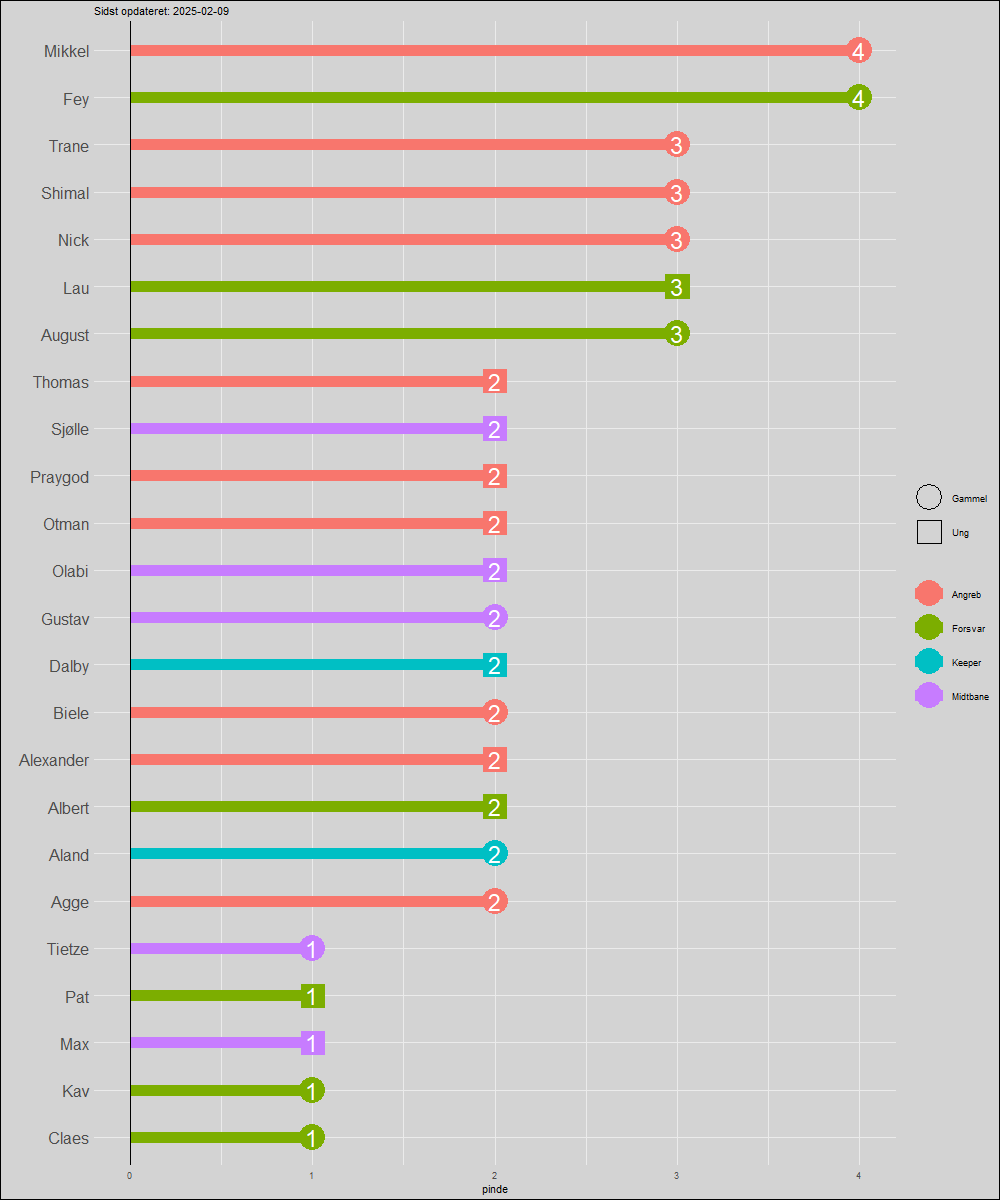
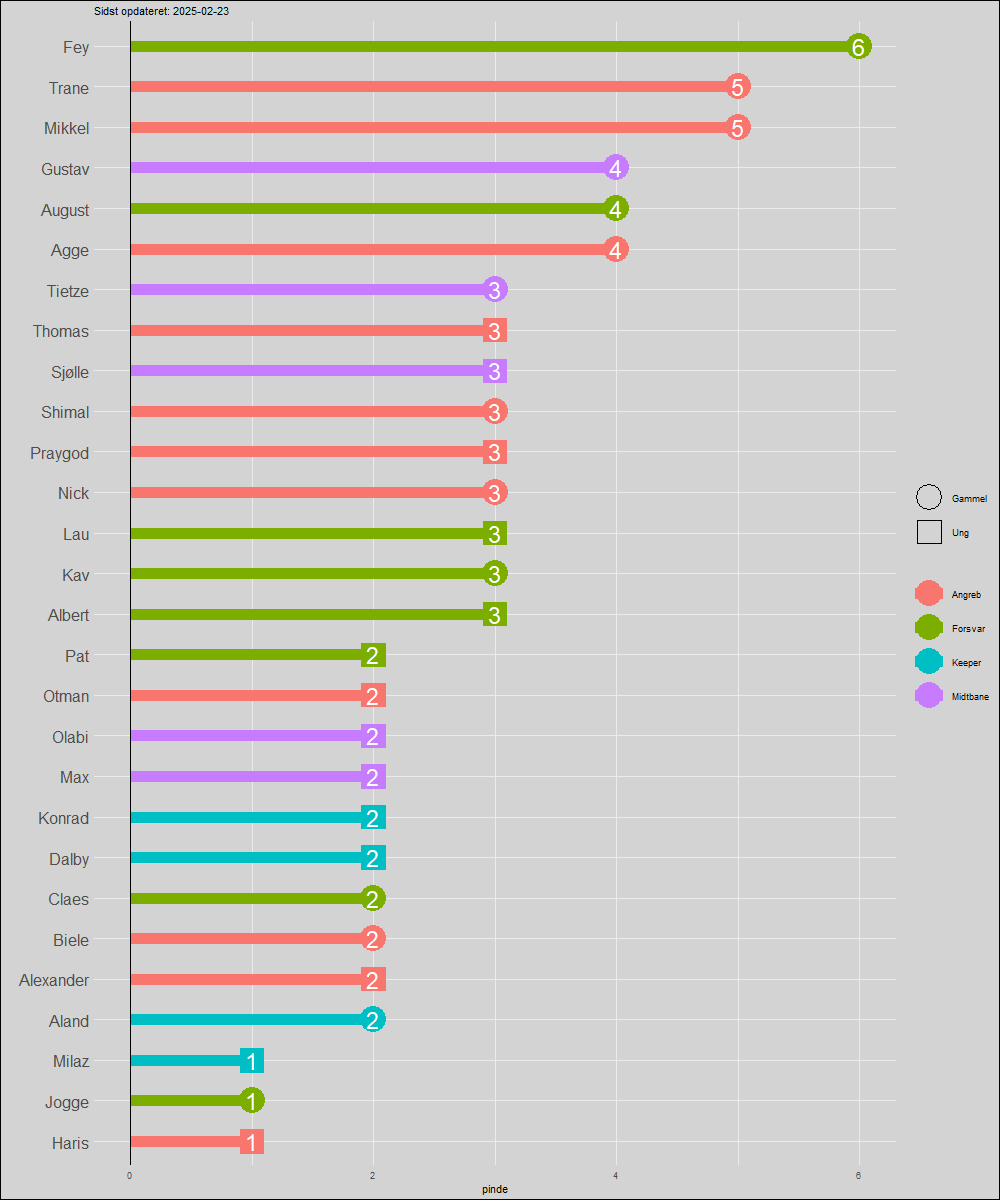
s

Changed region(s): [[0.124, 0.0308, 0.868, 0.9558], [0.031, 0.0308, 0.093, 0.9558]]

diff --git a/plots.md b/plots.md
@@ -147,6 +147,66 @@ Interval
 Lau, Kav, Mikkel, Praygod, Trane, Alexander, Fey
 </td>
 </tr>
+<tr>
+<td style="text-align:right;">
+7
+</td>
+<td style="text-align:left;">
+2025-02-17
+</td>
+<td style="text-align:left;">
+Interval
+</td>
+<td style="text-align:right;">
+1
+</td>
+<td style="text-align:right;">
+1
+</td>
+<td style="text-align:left;">
+Sjølle, Max, Albert, Haris, Praygod, Kav, Konrad, Gustav
+</td>
+</tr>
+<tr>
+<td style="text-align:right;">
+8
+</td>
+<td style="text-align:left;">
+2025-02-18
+</td>
+<td style="text-align:left;">
+Interval
+</td>
+<td style="text-align:right;">
+0
+</td>
+<td style="text-align:right;">
+0
+</td>
+<td style="text-align:left;">
+August, Fey, Mikkel, Trane, Milaz, Kav, Agge, Jogge, Tietze
+</td>
+</tr>
+<tr>
+<td style="text-align:right;">
+9
+</td>
+<td style="text-align:left;">
+2025-02-20
+</td>
+<td style="text-align:left;">
+Skud
+</td>
+<td style="text-align:right;">
+0
+</td>
+<td style="text-align:right;">
+0
+</td>
+<td style="text-align:left;">
+Gustav, Trane, Claes, Fey, Tietze, Pat, Thomas, Agge, Konrad
+</td>
+</tr>
 </tbody>
 </table>
 <table class="table table-striped">
@@ -200,6 +260,17 @@ Keeper
 <tr>
 <td style="text-align:left;">
 Konrad
+</td>
+<td style="text-align:left;">
+Ung
+</td>
+<td style="text-align:left;">
+Keeper
+</td>
+</tr>
+<tr>
+<td style="text-align:left;">
+Milaz
 </td>
 <td style="text-align:left;">
 Ung
